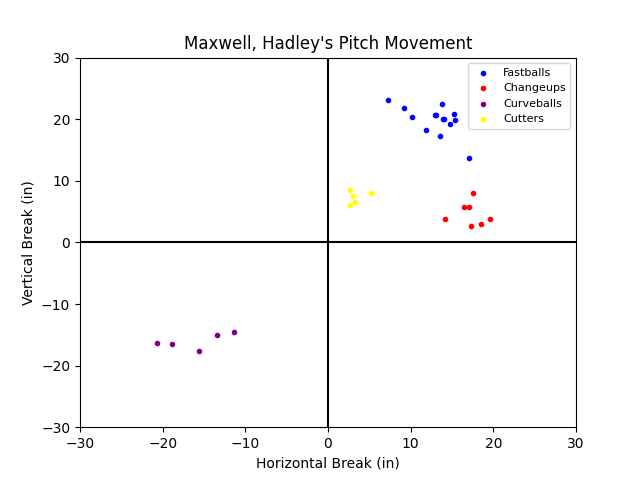
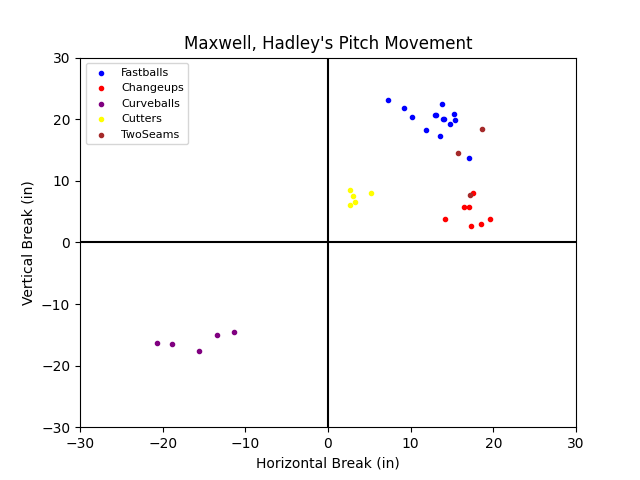
TwoSeam Added

Changed region(s): [[0.125, 0.125, 0.2812, 0.3125], [0.75, 0.125, 0.9062, 0.2812]]

diff --git a/filereader.py b/filereader.py
@@ -183,7 +183,7 @@ def pltMovement(Player):
       elif pitch.ptype == "Sinker":
         xSink.append(float(pitch.hbreak))
         ySink.append(float(pitch.vbreak))
-      elif pitch.ptype == "TwoSeamFastball":
+      elif pitch.ptype == "TwoSeamFastBall":
         xTsea.append(float(pitch.hbreak))
         yTsea.append(float(pitch.vbreak))
       elif pitch.ptype == "Cutter":
